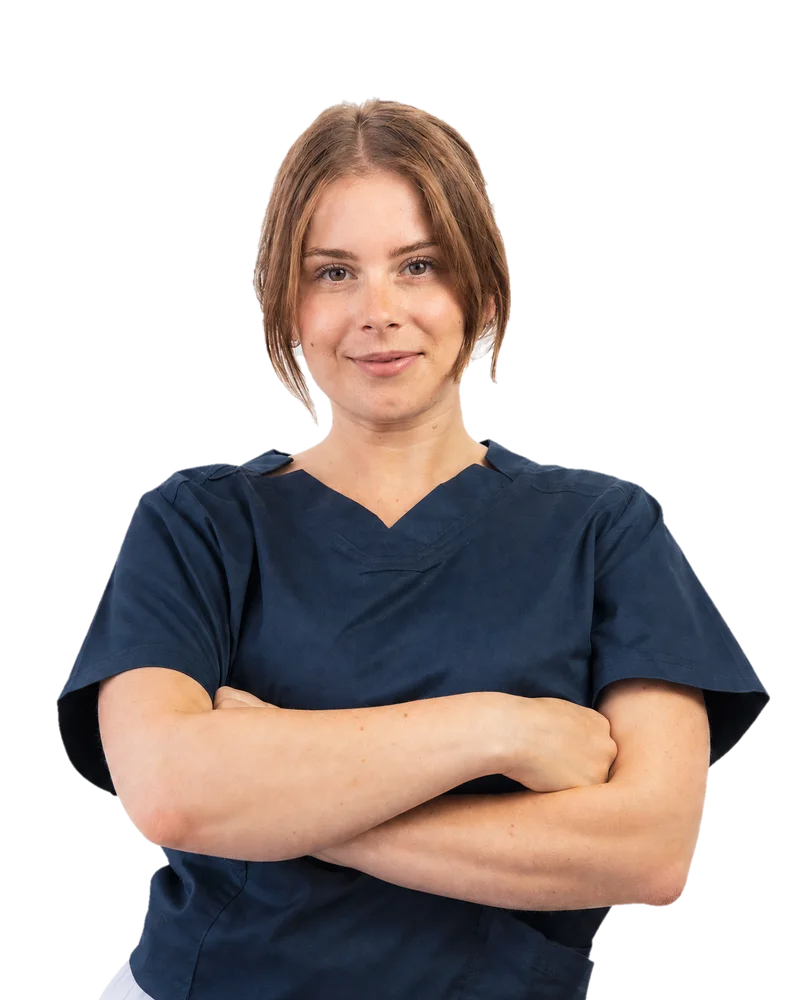
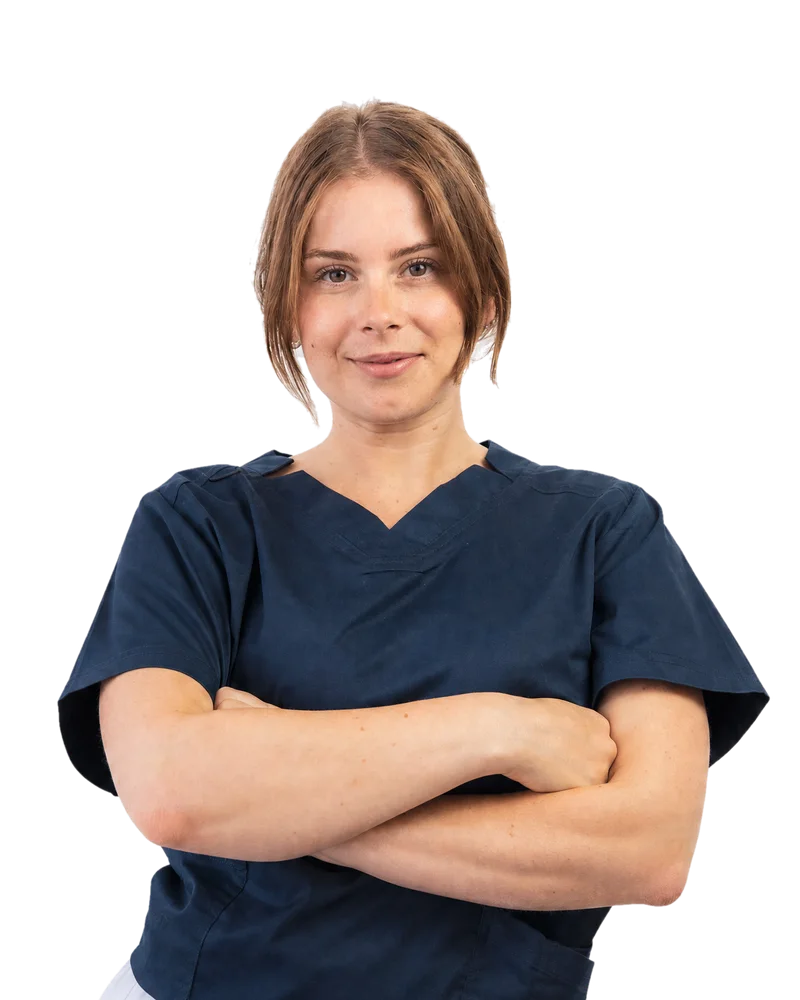
hero: lei sul bianco, l'oro alla meta' del testo
L'alone chiaro attorno ai capelli non era una frangia di bordo, ed e' il motivo
per cui limare il matte non lo toglieva. Quei pixel sono gli ~11k che il flood
fill tiene DENTRO di lei — luci sui pantaloni e nei capelli — e il conteggio non
si muove fra 0 e 3 passate di erosione (10923 -> 10824) perche' non stanno vicino
al bordo: toglierli vuol dire mangiare il soggetto.

Quello che decide se si leggono come alone e' il FONDO:

  composito su      il piu' chiaro atterra a     rispetto al fondo
  oro   (luma 172)  255                          +83  alone
  bianco(luma 255)  226                          -29  invisibile

Non una soglia da tarare, un fondo da cambiare — la proposta del cliente, e i
numeri gli danno ragione. ERODE scende da 2 a 1: senza un fondo che punisca il
plate residuo, l'unica cosa che deve ancora togliere e' l'anello contaminato, e
ogni passata in piu' e' capelli buttati.

La lama fucsia ci guadagna: adesso cade esattamente sulla cucitura oro/bianco e
fa da divisore invece che da bordo della fascia. Coreografia: 0.10s l'oro entra da
sinistra e la lama da destra, 0.22s la fascia bianca con la foto copre la lama
lasciandone i 50px, 1.12s il rilievo.

Conseguenza vera, misurata: l'oro e' un fondo che si mangia la palette.
text-secondary sparisce per definizione, text-emphasis fa 2.88:1, e persino
text-primary pieno arriva a 3.75 — che compra il testo grande (3:1) e nient'altro.
Quindi su quella meta' la gerarchia la portano i pesi di `ink` (4.53 a /75, 7.26
[…]

diff --git a/app/page.tsx b/app/page.tsx
@@ -202,42 +202,47 @@ export default function Home() {
           scroll 0, quindi ogni sua entrata è una CSS animation (vedi globals.css). */}
       <Section index={0} end={PANEL_END[0]}>
         <div className={`${shell} bg-white lg:px-0`}>
-          {/* was white-on-gold; on the white ground white brackets would vanish */}
-          <Corners color="rgba(0,78,143,0.22)" topLeft={false} />
+          {/* ink and not primary: these brackets now cross both halves, and blue at 22%
+              disappears on the gold one */}
+          <Corners color="rgba(20,33,46,0.25)" topLeft={false} />
 
-          {/* LA LAMA BERRY. Entra per prima e l'oro la ricopre quasi tutta: quello che
-              avanza è una barra verticale di ~50px, il terzo colore del marchio che si
-              affaccia sul hero senza occupare spazio. Solo da lg — è verticale per
-              definizione, e sul telefono la fascia oro è orizzontale. */}
+          {/* LA METÀ ORO, che è quella del TESTO.
+              Ci è arrivata perché la foto è un ritaglio e sull'oro portava un alone
+              chiaro attorno ai capelli. Non era una frangia di bordo da erodere: quei
+              pixel sono gli ~11k che il flood fill tiene DENTRO di lei (le luci sui
+              pantaloni e nei capelli), ed erodere tre volte non li scalfisce. Su oro il
+              più chiaro sta 83 livelli SOPRA il fondo, su bianco 29 sotto — cioè
+              invisibile. Quindi lei sta sul bianco e l'oro passa di qua.
+              Conseguenza da non perdere di vista: su oro `text-primary` regge solo come
+              testo GRANDE (3.75:1). Il titolo lo è; tutto il resto è passato a `ink`. */}
           <span
             aria-hidden="true"
-            className="fisio-slide-in pointer-events-none absolute inset-y-0 right-0 z-0 hidden bg-emphasis lg:block lg:w-[calc(46vw+50px)]"
+            className="fisio-slide-left pointer-events-none absolute inset-y-0 left-0 z-0 hidden bg-secondary lg:block lg:w-[54vw]"
             style={{ animationDelay: "0.10s" }}
           />
 
-          {/* LA FASCIA ORO E IL RITRATTO — deliberatamente UN box, non due.
-              L'oro used to be a `<span>` hung off the photo's grid cell, bleeding
-              `-right-[50vw]` to the screen edge, while the photo was centred inside the
-              cell: two reference frames for two things that have to look concentric, and
-              on a 1883px window the photo sat 164px left of the gold's centre. Now the
-              gold IS this element's background and the photo is centred in it, so they
-              are concentric by construction at every width. Don't restore the old shape.
+          {/* LA LAMA BERRY. Entra da destra insieme all'oro e la fascia bianca la copre
+              quasi tutta: quello che avanza è una barra verticale di ~50px, che ora cade
+              esattamente sulla cucitura oro/bianco e fa da divisore invece che da bordo.
+              Solo da lg — è verticale per definizione. */}
+          <span
+            aria-hidden="true"
+            className="fisio-slide-in pointer-events-none absolute inset-y-0 right-0 z-[1] hidden bg-emphasis lg:block lg:w-[calc(46vw+50px)]"
+            style={{ animationDelay: "0.10s" }}
+          />
 
-              Entra 0.12s dopo la lama: il ritardo È l'effetto, la lama deve farsi vedere
-              prima di essere coperta.
+          {/* LA FASCIA BIANCA E IL RITRATTO — deliberatamente UN box, non due.
+              Il fondo era oro e ora è bianco, ma la regola non cambia: lo sfondo È di
+              questo elemento e la foto è centrata dentro, quindi sono concentrici per
+              costruzione a ogni larghezza. Prima erano due cose in due sistemi di
+              riferimento diversi e su una finestra da 1883px la foto stava 164px a
+              sinistra del centro dell'oro. Non tornare indietro.
 
-              Mobile keeps its own device: a band that now bleeds all the way to the top
-              of the viewport (the panel is overflow-hidden, so `-top-[100svh]` is cut
-              exactly on the fold) — prima si fermava a `-top-8` e sopra restava una
-              striscia bianca. In basso il bordo della fascia è il bordo della foto. */}
+              È anche ciò che copre la lama berry lasciandone i 50px. */}
           <div
-            className="fisio-slide-in relative z-[1] mb-10 w-full max-w-6xl max-lg:short:mb-4 lg:absolute lg:inset-y-0 lg:right-0 lg:mb-0 lg:flex lg:w-[46vw] lg:max-w-none lg:items-center lg:justify-center lg:bg-secondary lg:py-12 lg:short:py-6"
+            className="fisio-slide-in relative z-[2] mb-10 w-full max-w-6xl max-lg:short:mb-4 lg:absolute lg:inset-y-0 lg:right-0 lg:mb-0 lg:flex lg:w-[46vw] lg:max-w-none lg:items-center lg:justify-center lg:bg-white lg:py-12 lg:short:py-6"
             style={{ animationDelay: "0.22s" }}
           >
-            <span
-              aria-hidden="true"
-              className="pointer-events-none absolute inset-x-[-50vw] -top-[100svh] bottom-0 bg-secondary lg:hidden"
-            />
             {/* La deriva dell'intero gruppo allo scroll; il ritratto ci si appoggia sopra
                 (il nesting compone le due).
                 Il cap è in `svh` e non in rem perché il vincolo vero è l'ALTEZZA: 3:4 vuol
@@ -262,24 +267,39 @@ export default function Home() {
 
           {/* IL TESTO — `self-start` perché il pannello è `flex-col items-center`, quindi
               l'asse trasversale è orizzontale: senza, un box da 54vw finirebbe centrato
-              nella viewport e sotto l'oro.
+              nella viewport e sotto la fascia bianca.
               Dentro, tutto è CENTRATO (richiesta del cliente) e `mx-auto`: il testo sta al
-              centro della metà BIANCA esattamente come il ritratto sta al centro di quella
-              oro. Aveva già avuto due giri di "lo spazio è distribuito male" da `ml-auto`. */}
-          <div className="relative z-10 w-full max-w-6xl text-center lg:w-[54vw] lg:max-w-none lg:self-start">
-            <div className="mx-auto max-w-[34rem] lg:px-10">
-              <p className="fisio-rise font-mono text-xs uppercase tracking-[0.28em] text-primary/70 sm:text-sm" style={{ animationDelay: "0.05s" }}>
+              centro della metà ORO esattamente come il ritratto sta al centro di quella
+              bianca. Aveva già avuto due giri di "lo spazio è distribuito male" da
+              `ml-auto`. */}
+          {/* `54vw - 50px` e non `54vw`: la colonna si ferma dove comincia la lama berry,
+              così è centrata nell'oro VISIBILE. A 54vw pieni, su una finestra da 1024 il
+              bordo destro del testo finiva 5px sotto la lama. */}
+          <div className="relative z-10 w-full max-w-6xl text-center lg:w-[calc(54vw-50px)] lg:max-w-none lg:self-start">
+            {/* Sul telefono l'oro sta DIETRO AL TESTO e scende fino in fondo alla videata
+                (il pannello è overflow-hidden, quindi `bottom-[-100svh]` è tagliato esatto
+                sulla piega). Prima stava dietro alla foto e saliva fino in cima: si è
+                ribaltato con lei. Il filetto berry in alto è la stessa lama del desktop,
+                girata di 90° — sul telefono le due metà sono sopra/sotto, non dx/sx. */}
+            <span
+              aria-hidden="true"
+              className="pointer-events-none absolute inset-x-[-50vw] -top-8 bottom-[-100svh] border-t-4 border-emphasis bg-secondary lg:hidden"
+            />
+            <div className="relative mx-auto max-w-[34rem] lg:px-10">
+              <p className="fisio-rise font-mono text-xs uppercase tracking-[0.28em] text-ink/80 sm:text-sm" style={{ animationDelay: "0.05s" }}>
                 {HERO.kicker}
               </p>
+              {/* l'unico blu su fondo oro, e può esserlo perché è testo GRANDE: 3.75:1
+                  passa il minimo WCAG per il large text (3:1), non quello per il corpo */}
               <h1 className="fisio-rise mt-3 font-display text-[2.6rem] font-semibold leading-[1.02] tracking-tight text-primary max-lg:short:text-4xl sm:text-6xl lg:text-7xl" style={{ animationDelay: "0.15s" }}>
                 {HERO.name}
               </h1>
-              {/* il ruolo fra due stanghette oro, simmetriche — è l'unico punto in cui
-                  l'oro entra nella colonna del testo, e tiene insieme le due metà */}
-              <p className="fisio-rise mt-3 flex items-center justify-center gap-3 font-display text-xl italic text-primary/90 short:mt-2 sm:text-2xl" style={{ animationDelay: "0.28s" }}>
-                <span aria-hidden="true" className="h-px w-8 shrink-0 bg-secondary sm:w-10" />
+              {/* il ruolo fra due stanghette, ora BLU: l'oro su oro sparirebbe. Un filetto
+                  è un elemento non testuale, quindi la soglia è 3:1 e il blu la passa. */}
+              <p className="fisio-rise mt-3 flex items-center justify-center gap-3 font-display text-xl italic text-ink short:mt-2 sm:text-2xl" style={{ animationDelay: "0.28s" }}>
+                <span aria-hidden="true" className="h-px w-8 shrink-0 bg-primary sm:w-10" />
                 {HERO.role}
-                <span aria-hidden="true" className="h-px w-8 shrink-0 bg-secondary sm:w-10" />
+                <span aria-hidden="true" className="h-px w-8 shrink-0 bg-primary sm:w-10" />
               </p>
               <p className="fisio-rise mx-auto mt-5 max-w-md text-base leading-relaxed text-ink/85 short:mt-3 sm:text-lg" style={{ animationDelay: "0.42s" }}>
                 {HERO.tagline}
@@ -296,7 +316,7 @@ export default function Home() {
                     {CONTACT.address.line1}, {CONTACT.address.line2} — {CONTACT.address.city}
                   </span>
                 </p>
-                <p className="font-mono text-[0.62rem] uppercase tracking-[0.16em] text-primary/70">
+                <p className="font-mono text-[0.62rem] uppercase tracking-[0.16em] text-ink/75">
                   {CONTACT.note}
                 </p>
               </div>
@@ -316,7 +336,7 @@ export default function Home() {
               { at: 0, opacity: 1, y: 0 },
               { at: 1, opacity: 0, y: 8 },
             ]}
-            className="absolute inset-x-0 bottom-8 z-10 flex flex-col items-center gap-1 text-primary/80"
+            className="absolute inset-x-0 bottom-8 z-10 flex flex-col items-center gap-1 text-ink/80"
           >
             <span className="font-mono text-[0.7rem] uppercase tracking-[0.2em]">{HERO.scrollHint}</span>
             <span aria-hidden="true" className="text-lg leading-none">↓</span>

diff --git a/app/site/ServiceIndex.tsx b/app/site/ServiceIndex.tsx
@@ -25,6 +25,15 @@ import useSectionJump from "./useSectionJump";
  * Two columns even on phones: full-width rows would cost the panel too much of the 100svh
  * it must fit inside. If it ever doesn't fit on an iPhone SE, `max-lg:short:hidden` on the
  * <nav> is the valve — the index is the least load-bearing block in the panel.
+ *
+ * ## Why it is all `ink` and no accent colour
+ * It sits on the hero's GOLD half, and gold is a ground that eats the palette: measured
+ * against `--brand-secondary`, `text-secondary` is invisible by definition, `text-emphasis`
+ * comes out at 2.88:1 and even full `text-primary` at 3.75:1 — enough for large text, not
+ * for an 11px ordinal. So the hierarchy here is carried by WEIGHT of ink rather than by
+ * hue: the number at `/75` (4.53:1) under the label at full ink (7.26:1). The blue is
+ * spent where it can be: the headline, which is large, and the rules beside the role,
+ * which are non-text and only owe 3:1.
  */
 
 /** One row: the shared hit target, hover/focus lift and underline.
@@ -52,11 +61,11 @@ function Entry({
       className="group flex w-full items-baseline justify-center gap-2 py-2 transition-transform hover:translate-x-0.5 focus-visible:translate-x-0.5 focus-visible:outline-none short:py-1.5"
     >
       {n && (
-        <span className="font-mono text-[0.7rem] text-secondary transition-colors group-hover:text-emphasis group-focus-visible:text-emphasis">
+        <span className="font-mono text-[0.7rem] text-ink/75 transition-colors group-hover:text-ink group-focus-visible:text-ink">
           {n}
         </span>
       )}
-      <span className="font-sans text-sm text-primary/85 underline-offset-4 group-hover:underline group-focus-visible:underline sm:text-[0.95rem]">
+      <span className="font-sans text-sm text-ink underline-offset-4 group-hover:underline group-focus-visible:underline sm:text-[0.95rem]">
         {label}
       </span>
     </button>
@@ -68,19 +77,19 @@ export default function ServiceIndex({ className = "" }: { className?: string })
 
   return (
     <nav aria-label="Sezioni del sito" className={className}>
-      <p className="font-mono text-[0.62rem] uppercase tracking-[0.2em] text-primary/60">
+      <p className="font-mono text-[0.62rem] uppercase tracking-[0.2em] text-ink/80">
         {HERO_INDEX_TITLE}
       </p>
       <ul className="mt-1.5 grid grid-cols-2 gap-x-6 gap-y-1 short:mt-1 short:gap-y-0.5">
         {HERO_INDEX.map(({ n, label, section, land }) => (
-          <li key={n} className="border-t border-primary/15">
+          <li key={n} className="border-t border-ink/25">
             <Entry jumpTo={jumpTo} n={n} label={label} section={section} land={land} />
           </li>
         ))}
       </ul>
       {/* staccata: non è un servizio. Il margine è il separatore — nessun filetto in più,
           il pannello deve stare in 100svh. */}
-      <div className="mt-4 border-t border-primary/25 short:mt-2.5">
+      <div className="mt-4 border-t border-ink/40 short:mt-2.5">
         <Entry jumpTo={jumpTo} label={HERO_INDEX_EXTRA.label} section={HERO_INDEX_EXTRA.section} />
       </div>
     </nav>

diff --git a/app/globals.css b/app/globals.css
@@ -85,12 +85,13 @@
    the right — and plays it ON LOAD. Panel 0 is on screen at scroll 0, so its entrance
    can never be a scroll-gated reveal; it would arrive blank.
 
-   Three owners, three delays, one per element (an SDiv must never carry one of these:
-   a filled `both` animation outranks the inline transform it writes, permanently):
-     0.10s  the berry blade slides in
-     0.22s  the gold slab — and the photo inside it — follows, covering the blade down
-            to a ~50px strip. The lag IS the effect: the blade has to be seen first.
-     1.12s  the photo lifts off the slab (0.22 + 0.9 = when the slab is home)
+   Four owners, one animation each (an SDiv must never carry one of these: a filled
+   `both` animation outranks the inline transform it writes, permanently):
+     0.10s  the gold half comes in from the LEFT, the berry blade from the right
+     0.22s  the white slab — and the photo inside it — covers the blade down to a ~50px
+            strip, which lands exactly on the gold/white seam. The lag IS the effect:
+            the blade has to be seen before it is covered.
+     1.12s  the photo lifts off the page (0.22 + 0.9 = when the slab is home)
 
    `both` on each, so the from-state already applies during the delay: no flash of a
    settled hero before its own animation starts. */
@@ -105,6 +106,22 @@
 .fisio-slide-in {
   transform: translateX(0); /* resting pose (also the reduced-motion pose) */
   animation: fisio-slide-in 0.9s cubic-bezier(0.22, 1, 0.36, 1) both;
+}
+
+/* The mirror, for the gold half: it lives on the LEFT now (the portrait moved onto white
+   — see HeroPortrait), so bringing it in from the right would drag it across the whole
+   screen to land where it started. The two halves close in on each other instead. */
+@keyframes fisio-slide-left {
+  from {
+    transform: translateX(-100%);
+  }
+  to {
+    transform: translateX(0);
+  }
+}
+.fisio-slide-left {
+  transform: translateX(0);
+  animation: fisio-slide-left 0.9s cubic-bezier(0.22, 1, 0.36, 1) both;
 }
 
 /* The rilievo: she grows a little and casts a shadow, so she reads as sitting ON the
@@ -138,7 +155,8 @@
   }
   /* The hero is shown already arrived: slabs home, portrait at its lifted resting pose
      (the composed end state, not an interrupted one). */
-  .fisio-slide-in {
+  .fisio-slide-in,
+  .fisio-slide-left {
     animation: none;
     transform: translateX(0);
   }

diff --git a/app/site/photos.ts b/app/site/photos.ts
@@ -167,12 +167,22 @@ export const PHOTOS = {
  * gold behind her is just the slab's own CSS colour — nothing to match, no seam to
  * measure, and the entrance is a plain CSS animation.
  *
+ * ## She stands on WHITE, and the gold moved to the text half
+ * The cut-out first shipped on the gold slab and wore a pale halo around the hair. It is
+ * not an edge artefact and no matte tuning removes it: the pale pixels are the ~11k the
+ * flood fill deliberately keeps INSIDE her (trouser and hair highlights), and eroding
+ * three times over barely touches the count. What decides whether they read as a halo is
+ * the ground — composited on gold the palest of them lands 83 levels ABOVE it, on white 29
+ * below. So the hero's gold is now the text half and she stands on white, where the
+ * leftovers are invisible by construction. See `scripts/hero-cutout.mjs`.
+ *
  * `width`/`height` are the encodes' real pixels here (unlike the video's, which were only
- * the ratio): they reserve the box and feed `next/image`-style sizing.
+ * the ratio): they reserve the box and feed `next/image`-style sizing. They drift by a
+ * pixel when a framing is retuned, so the script PRINTS these two lines ready to paste.
  */
 export const HERO_PHOTO = {
   /** Desktop: 3:4, cropped tight top and bottom so she is as large as the slab allows. */
-  desktop: { src: "/foto/hero.webp", width: 1100, height: 1467 },
+  desktop: { src: "/foto/hero.webp", width: 1100, height: 1466 },
   /** Phone: 4:5, head and half torso. */
   mobile: { src: "/foto/hero-mobile.webp", width: 800, height: 1000 },
   alt: "Alessia Stefanello, fisioterapista",

diff --git a/CLAUDE.md b/CLAUDE.md
@@ -128,14 +128,24 @@ The camera originals (15 JPG at 6000x4000, the hero PNG, plus the 4K studio vide
   checked against the measured subject box before it is written, because a window that
   clips a shoulder is invisible at 208px on a phone.
 
+  **She stands on WHITE, and that is why the gold moved to the text half.** The cut-out
+  first shipped on the gold slab and wore a pale halo around the hair. The obvious reading
+  is "erode harder"; measured, that is wrong. Those pale pixels are the ~11k the flood fill
+  deliberately KEEPS inside her, and the count barely moves between 0 and 3 erosion passes
+  (10923 → 10824) because they are nowhere near the boundary — you cannot trim them without
+  eating the subject. What decides whether they read as a halo is the ground: composited on
+  gold the palest of them lands **83 levels above** it, on white **29 below**, i.e.
+  invisible. So it is not a threshold to tune, it is a ground to change. `ERODE` is 1 and
+  only removes the single hard-contaminated ring.
+
   **What this replaced, and why it is simpler.** The hero was a `<video>` that played
   once on load, and before that a 27-frame `ImageSequence`. Both existed to solve a
   problem that has now evaporated: the source was a clip on an unkeyable wall, so the
   background had to be composited at build time and then *made to agree* with
   `--brand-secondary` to within a level or two — hence `check-gold.mjs`, `probe-bg.mjs`,
   `fill-matte.mjs` and the whole matte branch of `hero-video.sh`. With a real alpha
-  channel there is no background in the file at all: what sits behind her is the slab's
-  own CSS colour. Nothing to match, no seam to measure.
+  channel there is no background in the file at all: what sits behind her is the panel's
+  own white. Nothing to match, no seam to measure.
 
   Those scripts **stay on disk**, with their docblocks — the measurements in them are
   hard-won and the video may come back — but they are out of `npm run photos`, and
@@ -330,13 +340,12 @@ deferral would make the guard redundant. Don't take this as licence for a second
   pretends to have one.
 
   Its entrance is on load, like everything else in panel 0, and it is the leitmotiv of the
-  service panels played once: the **berry blade** slides in at `0.10s`, the **gold slab**
-  (carrying the photo) covers it at `0.22s` leaving a ~50px strip, and at `1.12s` the
-  photo **lifts** — `scale(1.1)` plus a `drop-shadow`. `drop-shadow` and not `box-shadow`:
-  a cut-out's box is mostly transparent, so a box shadow would draw a rectangle in mid-air
-  around her. `origin-bottom` under `lg` is load-bearing — on phones the slab's bottom
-  edge IS the photo's bottom edge, and a centred scale would push her hard cut-off 5% past
-  it onto the white.
+  service panels played once: at `0.10s` the **gold half** comes in from the left and the
+  **berry blade** from the right; at `0.22s` the **white slab** carrying the photo covers
+  the blade down to a ~50px strip, which lands exactly on the gold/white seam and so reads
+  as a divider rather than an edge; at `1.12s` the photo **lifts** — `scale(1.1)` plus a
+  `drop-shadow`. `drop-shadow` and not `box-shadow`: a cut-out's box is mostly transparent,
+  so a box shadow would draw a rectangle in mid-air around her.
 
   Its size is capped in `page.tsx` as `lg:w-[min(34rem,55svh,38vw)]`. The `55svh` is the
   one that usually binds — **viewport HEIGHT is the real constraint**: a 3:4 portrait is
@@ -346,12 +355,22 @@ deferral would make the guard redundant. Don't take this as licence for a second
   permanently clipped and unreachable. The `38vw` guards the other axis — the band is
   `46vw`. Raise the `55svh` to grow her, then re-check at 768px tall.
 
-  The hero's gold is a **slab**, not the whole panel: a right-hand slab on desktop, a band
-  hanging off the photo on phones — and that band now bleeds to the very TOP of the
-  viewport (`-top-[100svh]`, cut exactly on the fold by the panel's `overflow-hidden`),
-  which is the white strip the client saw.
-  The **gold is the wrapper's own background** and the portrait is centred inside it —
-  one box, not two. It used to be a `<span>` hung off the photo's grid cell bleeding
+  **The gold is the TEXT's half now** — `left-0 w-[54vw]` on desktop, and on phones a band
+  behind the copy that bleeds to the bottom of the viewport (`bottom-[-100svh]`, cut
+  exactly on the fold by the panel's `overflow-hidden`). It swapped sides with the
+  portrait for the halo reason above; before that it was on the right and, on phones, ran
+  to the TOP of the viewport instead.
+
+  ⚠ **Gold is a ground that eats the palette.** Measured against `--brand-secondary`:
+  `text-secondary` is invisible by definition, `text-emphasis` is 2.88:1, and even full
+  `text-primary` only reaches 3.75:1 — which buys large text (3:1) and nothing else. So on
+  that half the hierarchy is carried by weights of `ink` (4.53 at `/75`, 7.26 at full), and
+  the blue is spent only where it can be: the headline, which is large, and the rules
+  beside the role, which are non-text and owe 3:1. `node scripts/check-contrast.mjs` prints
+  the whole table — add a line there before adding a colour here.
+
+  The **white slab is the wrapper's own background** and the portrait is centred inside it
+  — one box, not two (and that background is also what covers the blade). It used to be a `<span>` hung off the photo's grid cell bleeding
   `-right-[50vw]` to the screen edge while the photo was centred in that cell: two
   reference frames for two things that must look concentric, which put the photo 164px
   left of the gold's centre on a 1883px window and got worse as the monitor grew. The old

diff --git a/CLIENTE_TODO.md b/CLIENTE_TODO.md
@@ -85,10 +85,20 @@ stato fatto.
      prima una lama fucsia, poi l'oro che la copre lasciandone una barra di ~50px, poi la
      foto che si solleva (scale 1.1 + ombra sotto). Via il video.
    - Sorpresa tecnica: la foto `HERO_PHOTO.png` **sembrava** già scontornata ed era invece
-     opaca, con la scacchiera *dipinta dentro*. È stata scontornata davvero, quindi ora
-     dietro Alessia c'è direttamente il colore della fascia — niente rettangolo, niente
-     giunta. *(Se salta fuori il file originale con la trasparenza vera, tanto meglio: il
-     nostro passaggio diventa superfluo.)*
+     opaca, con la scacchiera *dipinta dentro*. È stata scontornata davvero. *(Se salta
+     fuori il file originale con la trasparenza vera, tanto meglio: il nostro passaggio
+     diventa superfluo.)*
+   - **Alessia sta sul bianco e l'oro è passato alla metà del testo.** Sull'oro il ritaglio
+     portava un alone chiaro attorno ai capelli, e non era una frangia da limare: quei
+     pixel sono ~11k luci *dentro* di lei (pantaloni e capelli), e limarli vuol dire
+     mangiarle i capelli. Misurato: su oro il più chiaro sta 83 livelli sopra il fondo, su
+     bianco 29 sotto — invisibile. Non era una soglia da tarare, era il fondo da cambiare.
+     La lama fucsia ci ha guadagnato: adesso cade sulla cucitura oro/bianco e fa da
+     divisore invece che da bordo.
+   - Conseguenza sui colori: sull'oro il blu del marchio regge solo come testo *grande*
+     (3.75:1), quindi il titolo resta blu e tutto il resto passa al quasi-nero del
+     marchio. Sul telefono la stessa cosa si ribalta: foto in alto su bianco, oro dietro
+     al testo fino in fondo alla videata (con un filetto fucsia a segnare il confine).
    - Testo a sinistra **centrato**, con il ruolo fra due stanghette oro.
    - Via il pulsante "Contattami" e il numero, al loro posto **l'indirizzo dello studio**.
    - Indice ristrutturato: "Lavoro in ambito:" sopra i tre servizi, "A domicilio" diventa
@@ -112,8 +122,11 @@ stato fatto.
 8. **Formazione dal CV.** — FATTO. Sedici voci vere (esperienza, esperienze extra,
    educazione, corsi) sfogliate in **quattro fogli che si sovrappongono** entrando da
    destra, esattamente l'animazione chiesta: un CV più lungo aggiunge pagine, non altezza.
-9. **Mobile: banda bianca in cima / crop della foto.** — FATTO: l'oro arriva fino al bordo
-   superiore, e sul telefono la foto è inquadrata su **testa e mezzo busto**.
+9. **Mobile: banda bianca in cima / crop della foto.** — FATTO, con una precisazione: la
+   foto è inquadrata su **testa e mezzo busto** come chiesto, ma il fondo pieno in cima ora
+   è **bianco**, non giallo — l'oro si è spostato sotto, dietro al testo, insieme al
+   ribaltamento del punto 3. La banda bianca "di risulta" che avevi visto non c'è più: il
+   colore arriva a filo del bordo, da una parte o dall'altra.
 10. **Mappa mobile affollata.** — FATTO: la card non viene più rimpicciolita a 12rem (a
     quella misura i pulsanti di Google *erano* la mappa) e la nostra pillola "Apri in
     Google Maps" compare solo da tablet in su.
